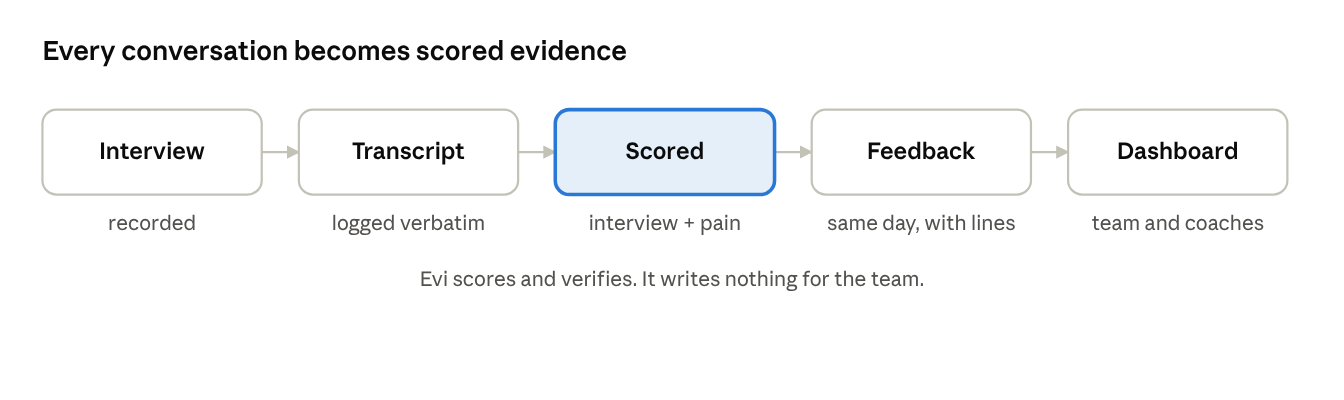
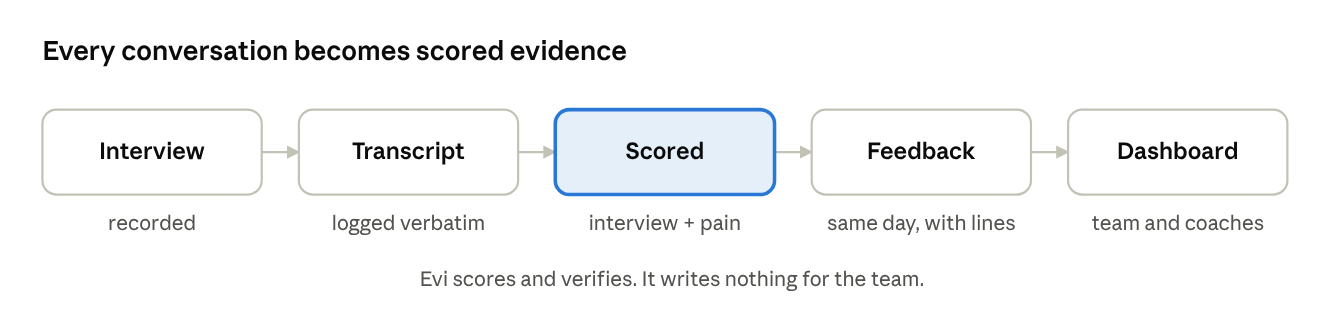
Polish image layout in Introducing Evi post
- Move evidence quadrant below the paragraph that introduces the four quadrants
- Show quadrant at full text width without a border
- Widen founder and cohort screenshots beyond the text column on md/lg
- Crop bottom whitespace from pipeline image to match top padding

diff --git a/src/routes/blog.introducing-evi.tsx b/src/routes/blog.introducing-evi.tsx
@@ -63,6 +63,8 @@ function Figure({
   width,
   height,
   narrow,
+  wide,
+  borderless,
 }: {
   src: string;
   alt: string;
@@ -70,9 +72,11 @@ function Figure({
   width: number;
   height: number;
   narrow?: boolean;
+  wide?: boolean;
+  borderless?: boolean;
 }) {
   return (
-    <figure className="!my-10">
+    <figure className={`!my-10 ${wide ? "md:-mx-12 lg:-mx-[11rem]" : ""}`}>
       {caption && (
         <figcaption className="mb-3 font-display italic text-lg text-foreground">
           {caption}
@@ -84,7 +88,7 @@ function Figure({
         width={width}
         height={height}
         loading="lazy"
-        className={`w-full h-auto rounded-sm border ${narrow ? "max-w-[30rem] mx-auto" : ""}`}
+        className={`w-full h-auto rounded-sm ${borderless ? "" : "border"} ${narrow ? "max-w-[39rem] mx-auto" : ""}`}
         style={{ borderColor: "var(--rule)" }}
       />
     </figure>
@@ -204,7 +208,7 @@ function ArticlePage() {
             src={`${IMG}/evi-pipeline.png`}
             alt="Every conversation becomes scored evidence: Interview (recorded) → Transcript (logged verbatim) → Scored (interview + pain) → Feedback (same day, with lines) → Dashboard (team and coaches). Evi scores and verifies. It writes nothing for the team."
             width={1344}
-            height={400}
+            height={331}
           />
           <p>
             Teams upload interview transcripts (not summaries!). Evi scores each one against two
@@ -213,13 +217,6 @@ function ArticlePage() {
             on?). Our rubrics hold years of coaching judgment in detailed criteria, and the model
             applies that judgment consistently to every transcript.
           </p>
-          <Figure
-            src={`${IMG}/evidence-quadrant.png`}
-            alt="Measured quality of evidence: Interview Score (can you trust the data?) against Pain Score (what does it say?). High pain, poor interview: Selling, not listening — discard and re-interview. High pain, clean interview: Build from this — keep gathering. Low pain, poor interview: Stop — fix the interview first. Low pain, clean interview: Pivot — honest null."
-            width={899}
-            height={671}
-            narrow
-          />
           <p>
             For years we’ve told students to{" "}
             <strong className="text-foreground">
@@ -242,6 +239,13 @@ function ArticlePage() {
             Read together, the interview score and the pain score sort every interview into one of
             four places: build on it, coach the technique, find a bigger problem, or move on.
           </p>
+          <Figure
+            src={`${IMG}/evidence-quadrant.png`}
+            alt="Measured quality of evidence: Interview Score (can you trust the data?) against Pain Score (what does it say?). High pain, poor interview: Selling, not listening — discard and re-interview. High pain, clean interview: Build from this — keep gathering. Low pain, poor interview: Stop — fix the interview first. Low pain, clean interview: Pivot — honest null."
+            width={899}
+            height={671}
+            borderless
+          />
           <p>
             The AI’s role is narrow. It doesn’t make decisions for the team, and the evidence is
             always a real customer’s words. It reads, scores, and verifies (something LLMs are very
@@ -253,6 +257,7 @@ function ArticlePage() {
             caption="Founder’s View: Sample Scored Interview"
             width={1672}
             height={941}
+            wide
           />
           <p>
             For founders, it’s a fast track to mastering customer discovery and gaining insight into
@@ -312,6 +317,7 @@ function ArticlePage() {
             caption="Cohort View for Instructors and Accelerator Managers"
             width={1672}
             height={941}
+            wide
           />
 
           <H2>Early results</H2>
